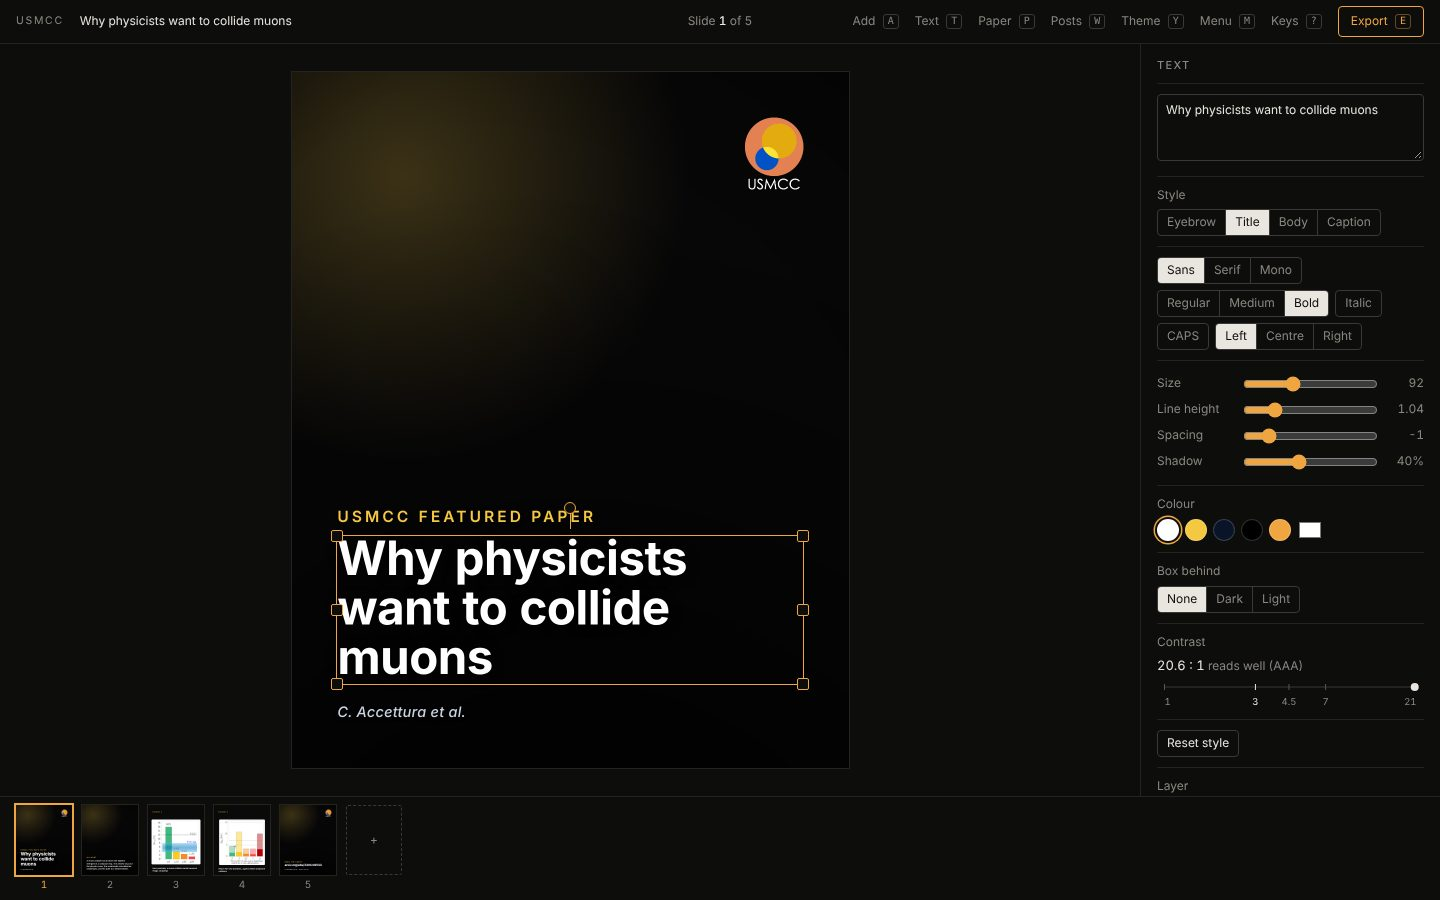
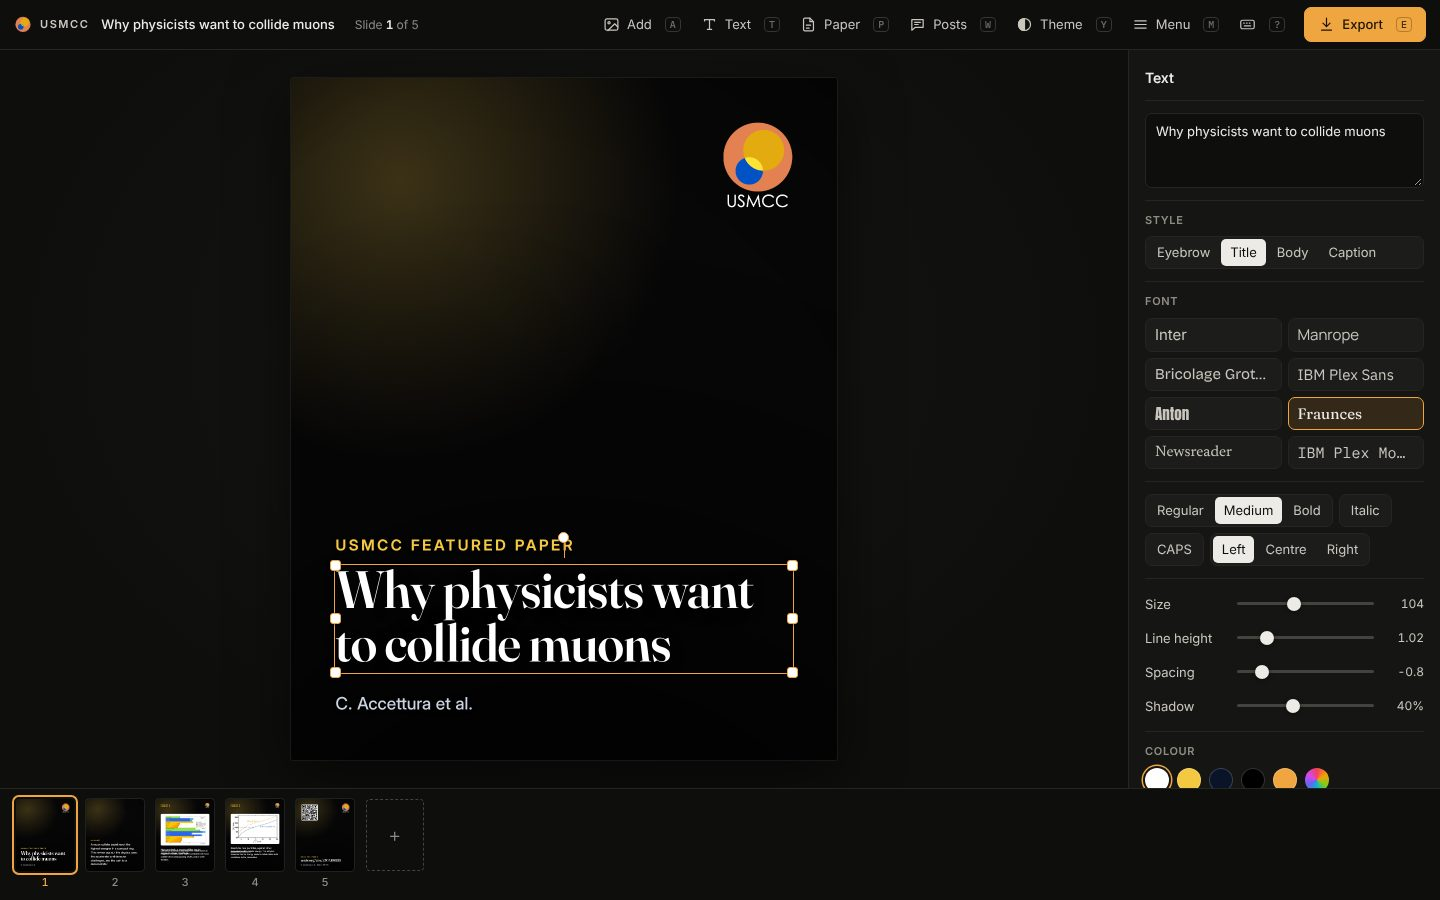
Header grid fix, robust sample runs, fresh screenshots; docs for fonts, captions, QR codes, samples
Claude-Session: https://claude.ai/code/session_01YCbY5Mb3Mx4CDfccQ3foDH

diff --git a/web/style.css b/web/style.css
@@ -59,7 +59,7 @@ body.lite .full-only { display: none !important; }
 /* ---------- bar ---------- */
 #bar {
   flex: 0 0 auto; height: calc(var(--bar-h) + var(--safe-t)); padding: var(--safe-t) 14px 0;
-  display: grid; grid-template-columns: 1fr auto 1fr; align-items: center; gap: 12px;
+  display: grid; grid-template-columns: minmax(0, 1fr) auto; align-items: center; gap: 12px;
   border-bottom: 1px solid var(--hair); background: var(--bg);
   -webkit-app-region: drag; user-select: none; -webkit-user-select: none;
 }

diff --git a/README.md b/README.md
@@ -19,15 +19,19 @@ the camera roll, in order, ready to post.
 
 - **The paper in one paste.** A row copied from the submission sheet (with or
   without its header) fills in the title, plain title, authors, date,
-  summary and link. An arXiv link works too.
+  summary and link. Or paste just an arXiv link: the desktop app fills in
+  the title, authors, date and abstract from arXiv. LaTeX in titles and
+  abstracts (`$\tau$`, `$10^{34}$`) comes out as readable text (τ, 10³⁴).
 - **Make slides.** A cover ("USMCC Featured Paper", title, authors, logo), a
-  plain-language summary and a closing slide with the link, in the current
-  theme. The text re-stacks itself when you change the theme or the size, or
+  plain-language summary and a closing slide with the link and a QR code to
+  the paper (links in Instagram posts can't be tapped), in the current
+  theme. Long titles shrink to fit. The text re-stacks itself when you change the theme or the size, or
   edit the words, until you move it by hand.
 - **Pictures of every kind.** Photos fill a slide (behind the words); plots
   (PNG, SVG, PDF) sit on a white card; pages of a PDF are picked from
-  thumbnails; the paper's figures come straight from its arXiv source (PDF
-  figures drawn sharp). Drop files anywhere, paste them, or press `A`.
+  thumbnails; the paper's figures come straight from its arXiv source, in
+  reading order, with their captions from the paper (PDF figures drawn
+  sharp). Each figure gets its own slide: label, picture, caption, logo. Drop files anywhere, paste them, or press `A`.
 - **Simple edits.** Move, resize and turn anything (with snapping to the
   centre and the margins); crop and zoom a picture inside its frame, to the
   one panel of a plot that matters; brightness, contrast, saturation,
@@ -37,8 +41,11 @@ the camera roll, in order, ready to post.
   own size, font, weight, colour, alignment, shadow and a box behind. A
   contrast readout (WCAG, on a log scale) says when text gets hard to read
   over a photo.
-- **Six themes** (Editorial, Bold Sans, Punch, Ocean, Soft Serif, Minimal
-  Mono) and three sizes: portrait 4:5, square, story 9:16.
+- **Six themes**, each with its own Google Fonts pairing, and three sizes
+  (portrait 4:5, square, story 9:16): Editorial (Fraunces + Inter), Bold
+  Sans (Bricolage Grotesque), Punch (Anton), Ocean (Manrope), Soft Serif
+  (Newsreader), Minimal Mono (IBM Plex Sans + Mono). The fonts ship with the
+  app, so it works offline. Text is sized to read on a phone.
 - **Export** JPEGs or PNGs (1080 px wide) for Instagram, X and Bluesky, or one
   PDF for a LinkedIn document post. Desktop: into a folder. Phone: the share
   sheet, **Save Images** → Photos.
@@ -132,6 +139,11 @@ npm run lite         # build Lite into build/lite and serve it
 cargo test --no-default-features --manifest-path src-tauri/Cargo.toml
 npm run build:cli && npm test && npm run test:ui
 ```
+
+`npm run samples` builds carousels from six real muon collider papers
+(`tests/fixtures/papers.tsv`, with their figures from arXiv) in every theme
+and lays the slides out on one contact sheet, `build/samples/contact.png`,
+for checking the design. `node scripts/fetch-fonts.mjs` refreshes the fonts.
 
 `test:ui` drives the editor in headless Chromium (building a carousel,
 exports, undo, a 50 ms budget for key presses) and checks that Lite reads

diff --git a/CLAUDE.md b/CLAUDE.md
@@ -14,6 +14,11 @@ npm test               # server tests (black-box)
 npm run test:ui        # editor + Lite in headless Chromium (see below)
 ```
 
+`npm run samples` renders carousels from real muon collider papers
+(`tests/fixtures/papers.tsv`) in every theme onto one contact sheet
+(`build/samples/contact.png`): look at it after any change to themes,
+layout or type.
+
 `npm start` serves the UI in a browser. `npm run app` runs the Tauri app.
 `npm run lite` builds Lite into build/lite and serves it. Locally,
 `CHROMIUM_PATH=/path/to/chrome` makes the UI tests use an installed Chromium.
@@ -40,7 +45,10 @@ API. If it fails, fix the regression rather than raising the budget.
   thumbnails, theme previews and exports), `app.js` (state, undo, stage,
   gestures, inspector, slide strip, imports, keys and `MENU`), `sheets.js`
   (paper, PDF pages, figures, posts, export, carousels, theme, menu, keys),
-  `lite.js` (Lite only), `vendor/` (pdf.js, legacy build), `img/` (logos).
+  `lite.js` (Lite only), `vendor/` (pdf.js legacy build, qrcode.js),
+  `img/` (logos), `fonts/` (Google Fonts, OFL, fetched by
+  `scripts/fetch-fonts.mjs`; never link fonts.googleapis.com: the app must
+  work offline and the canvas needs fonts loaded before it measures).
 - **Lite** (the web version, `/lite/` on the website): the same `web/` page
   plus `web/lite.js`, which answers every `/api` request in the browser
   (IndexedDB, direct arXiv fetches) and `paper.rs` compiled to WebAssembly
@@ -61,7 +69,12 @@ API. If it fails, fix the regression rather than raising the budget.
 - **Exports write `.name.partial` and rename**; same name and size = skipped.
 - **The Claude API key never reaches the page.** It lives in the keychain
   (or `ANTHROPIC_API_KEY`); the server makes the request. Lite has no Claude.
-- **Slides are 1080 px wide**; every coordinate is in slide pixels.
+- **Slides are 1080 px wide**; every coordinate is in slide pixels. Body text
+  is ≥ 40 px (it shows at a third of that on a phone).
+- **Text drawn on a canvas needs its font loaded**: `Render.fontsReady` /
+  `slideReady` before exporting; layout is re-measured on `loadingdone`.
+- **Auto-placed text has `flow`** (`reflow` in app.js stacks it per theme and
+  fits titles); moving it by hand drops `flow` for its group.
 
 ## Conventions
 

diff --git a/site/content/_index.md b/site/content/_index.md
@@ -14,12 +14,14 @@ Bluesky, LinkedIn and the website.
 ## How it works
 
 1. **Paste the paper's row** from the submission sheet (or just its arXiv
-   link). The title, authors, summary and link fill in.
+   link). The title, authors, summary and link fill in, with any LaTeX
+   turned into readable text.
 2. **Make slides.** A cover, a plain-language summary and a closing slide
-   appear in the current theme, with the USMCC logo.
+   with a QR code to the paper appear in the current theme, with the USMCC
+   logo.
 3. **Pull in pictures.** Your photos, plots (PNG, SVG, PDF), pages of the
-   paper's PDF, or its figures straight from arXiv. Photos fill a slide;
-   plots sit on a white card.
+   paper's PDF, or its figures straight from arXiv, each with its caption
+   from the paper. Photos fill a slide; plots sit on a white card.
 4. **Edit.** Move, resize and turn anything; crop and zoom a picture to the
    part of the plot that matters; adjust brightness, contrast and colour; add
    text and style it. A contrast check tells you when text gets hard to read.

diff --git a/CHANGELOG.md b/CHANGELOG.md
@@ -1,5 +1,22 @@
 # Changelog
 
+## Unreleased
+
+**A visual overhaul, tested on real muon collider papers**
+- Google Fonts, kept in the app (works offline): each theme has its own
+  pairing (Fraunces, Bricolage Grotesque, Anton, Manrope, Newsreader, IBM
+  Plex), and a font picker in the text panel. The interface uses Inter.
+- Type sized for phones; long titles shrink to fit; a bigger logo.
+- Figure slides: a "Figure n" label, the picture on a card, the caption
+  from the paper's own TeX source, the logo. Figures come in reading order.
+- A QR code to the paper on the closing slide.
+- Paste an arXiv link and the desktop app fills in the title, authors, date
+  and abstract. LaTeX in titles and abstracts becomes readable text.
+- Summaries no longer break at "U.S." or "e.g.".
+- A new interface look: icons, quieter controls, a start screen with three
+  ways in; on phones the properties panel stays out of the way.
+- `npm run samples`: carousels from six real papers on one contact sheet.
+
 ## 0.2.0
 
 **A carousel editor, on a computer and a phone**
